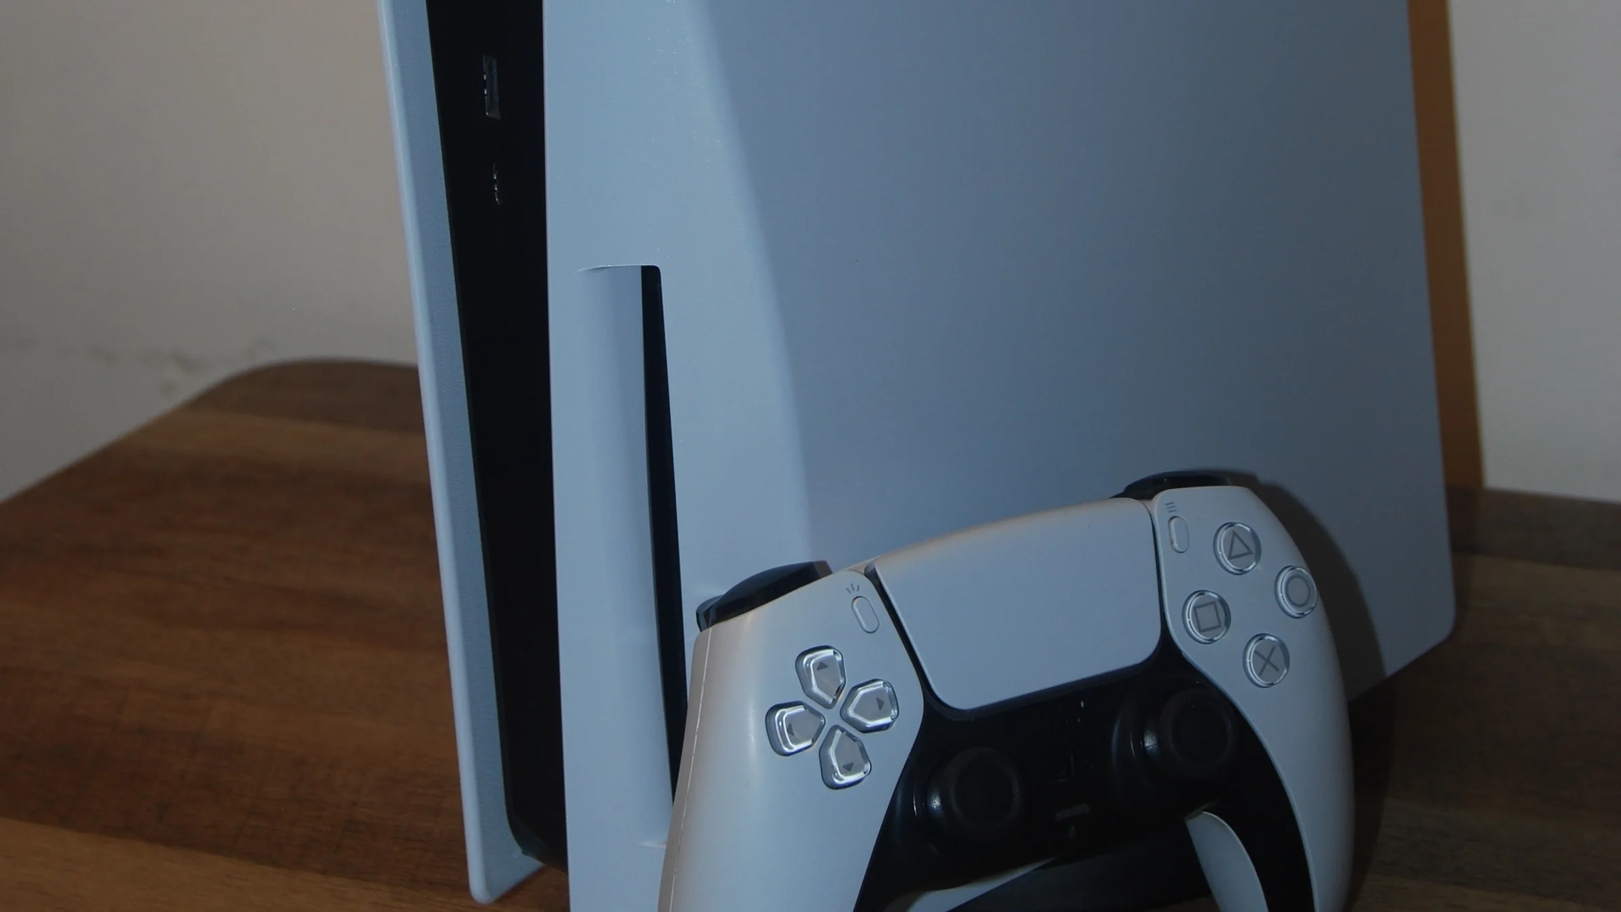
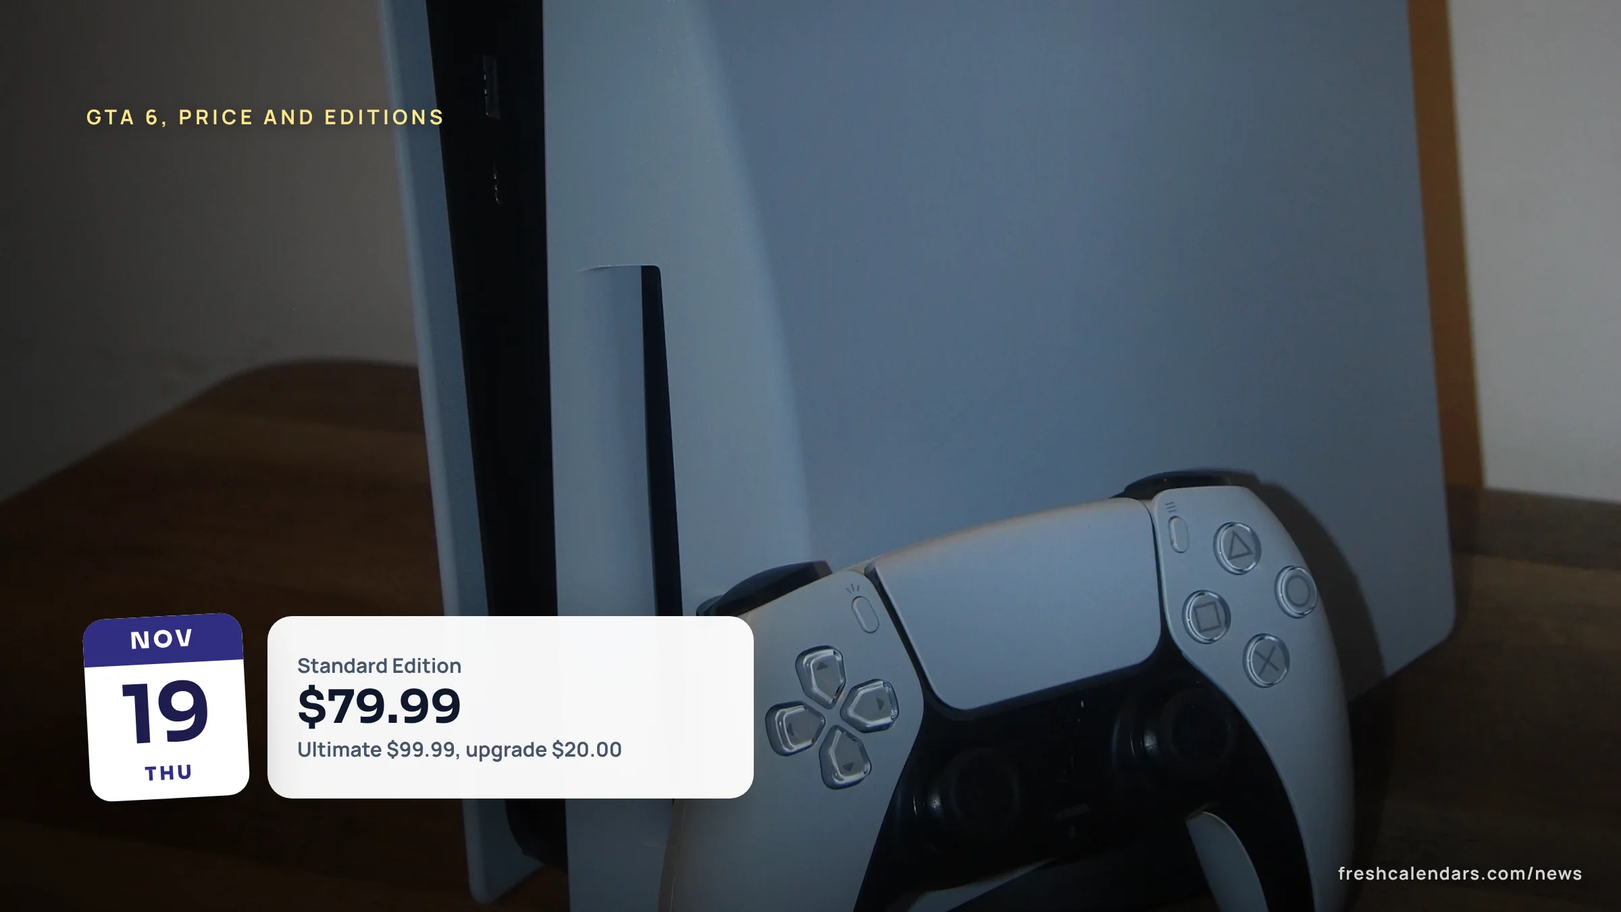
news(gta-6): launch stories in progress
Claude-Session: https://claude.ai/code/session_01FjeiYS8veVExHHG2PytUqw

diff --git a/apps/news/src/content/articles/2026/10/gta-6-countdown-release-time-by-time-zone.md b/apps/news/src/content/articles/2026/10/gta-6-countdown-release-time-by-time-zone.md
@@ -1,9 +1,9 @@
 ---
 title: "GTA 6 Countdown: Nov. 19 Release Time by Time Zone"
-description: "Grand Theft Auto (GTA) VI launches Thursday, Nov. 19, 2026. A live countdown shows the PlayStation Store release time in ET, PT, the UK and India."
+description: "Grand Theft Auto (GTA) VI launches Thursday, Nov. 19: midnight local time on PS5, 12 a.m. ET on the US store, 1 a.m. ET on Xbox Cloud Gaming. Live clock."
 type: explainer
 publishedAt: "2026-10-23T03:05:00-04:00"
-updatedAt: "2026-11-13T16:27:00-05:00"
+updatedAt: "2026-11-18T05:25:00-05:00"
 authors: [jessica-hartwell]
 category: gaming-tech
 keywords: ["GTA 6 countdown", "GTA 6 release time", "GTA 6 release date and time EST", "GTA 6 countdown days", "GTA 6 countdown printable"]
@@ -41,30 +41,44 @@ hero:
   title: "GTA 6 countdown to Nov. 19"
   caption: "Grand Theft Auto VI launches Thursday, Nov. 19, 2026, on PlayStation 5 and Xbox Series X|S. PlayStation Store listings give the release time."
 summary:
-  - "Grand Theft Auto VI launches Thursday, Nov. 19, 2026, on PlayStation 5 and Xbox Series X|S. Digital pre-load began Nov. 10."
-  - "The US and Canada PlayStation Store listings show 05:00 Coordinated Universal Time (UTC), which is 12:00 a.m. Eastern Time (ET) on Nov. 19 and 9 p.m. Pacific Time (PT) on Nov. 18."
-  - "The listings differ by country: the UK store lists 7 p.m. ET on Nov. 18, Germany 6 p.m. ET and India 1:30 p.m. ET."
-  - "The Xbox store page gives the date but no time. Rockstar has not announced a PC version."
+  - "Grand Theft Auto VI launches tomorrow, Thursday, Nov. 19, 2026, on PlayStation 5 and Xbox Series X|S. PlayStation says it releases at midnight local time on PS5, and pre-load began Nov. 10."
+  - "The US PlayStation Store lists 12 a.m. Eastern Time (ET) on Nov. 19, which is 9 p.m. Pacific Time (PT) on Nov. 18. The UK store lists 7 p.m. ET on Nov. 18, Germany 6 p.m. ET and India 1:30 p.m. ET."
+  - "Xbox Cloud Gaming starts at 1 a.m. ET on Nov. 19, per Microsoft. An official release hour for Xbox consoles is not announced."
+  - "Auckland, New Zealand reaches midnight first, at 6 a.m. ET on Wed., Nov. 18, by our conversion. Rockstar has not announced a PC version."
 faq:
   - q: "How many days until GTA 6?"
-    a: "As of Fri., Nov. 13, 2026, it is 6 days to Thu., Nov. 19 by the calendar. The live clock above counts to the exact release moment of the store you pick."
+    a: "As of Wed., Nov. 18, 2026, it is 1 day to Thu., Nov. 19 by the calendar. The live clock above counts to the exact release moment of the store you pick."
   - q: "What time does GTA 6 come out in the US?"
-    a: "The US PlayStation Store listing shows 11/19/2026 05:00 AM UTC, which is 12:00 a.m. ET on Thursday, Nov. 19. In the Central, Mountain and Pacific time zones that is 11 p.m., 10 p.m. and 9 p.m. on Wednesday, Nov. 18. The Xbox store page lists the date only."
+    a: "PlayStation says Grand Theft Auto VI releases at midnight local time on Nov. 19 on PS5. The US PlayStation Store listing shows 11/19/2026 05:00 AM UTC, which is 12:00 a.m. ET on Thursday, Nov. 19. In the Central, Mountain and Pacific time zones that is 11 p.m., 10 p.m. and 9 p.m. on Wednesday, Nov. 18. Xbox Cloud Gaming starts at 1 a.m. ET (12 a.m. CT, 11 p.m. MT and 10 p.m. PT on Nov. 18), per Microsoft."
   - q: "What time does GTA 6 come out in the UK?"
-    a: "The UK PlayStation Store listing shows 19/11/2026 12:00 AM UTC, which is 12:00 a.m. Greenwich Mean Time (GMT) on Thursday, Nov. 19."
+    a: "The UK PlayStation Store listing shows 19/11/2026 12:00 AM UTC, which is 12:00 a.m. Greenwich Mean Time (GMT) on Thursday, Nov. 19, matching PlayStation's midnight local time."
   - q: "What time does GTA 6 come out in India?"
     a: "The India PlayStation Store listing shows 18/11/2026 06:30 PM UTC, which is 12:00 a.m. India Standard Time (IST) on Thursday, Nov. 19."
-  - q: "What time does GTA 6 come out in Australia?"
-    a: "We could not load the Australian PlayStation Store listing, so we do not give a time. Check the listing for your account's store region."
+  - q: "What time does GTA 6 come out in Australia and New Zealand?"
+    a: "At midnight local time on Nov. 19, per PlayStation. By our conversion, that is 8 a.m. ET on Wed., Nov. 18 in Sydney and 6 a.m. ET in Auckland. We could not load the Australian PlayStation Store listing, so we give no store timestamp. Our New Zealand story covers what is and is not confirmed about changing a console's region."
   - q: "Does GTA 6 release at the same moment everywhere?"
-    a: "No. The PlayStation Store listings differ by country: US and Canada 05:00 UTC, UK 00:00 UTC, Germany 23:00 UTC on Nov. 18 and India 18:30 UTC on Nov. 18. Converted, those are 12:00 a.m. local time in each of those countries."
+    a: "No single worldwide moment is announced. PlayStation says midnight local time, and the store listings differ by country: US and Canada 05:00 UTC, UK 00:00 UTC, Germany 23:00 UTC on Nov. 18 and India 18:30 UTC on Nov. 18. Converted, those are 12:00 a.m. local time in each of those countries."
+  - q: "What time does GTA 6 come out on Xbox?"
+    a: "Xbox Cloud Gaming on Xbox One and Xbox Series X|S starts at 1 a.m. ET on Nov. 19, per Microsoft's Xbox Wire. Microsoft has not announced a release hour for Xbox Series X|S consoles."
   - q: "Is GTA 6 coming to PC?"
     a: "Rockstar Games has not announced a PC version or date. The announced platforms are PlayStation 5 and Xbox Series X|S."
   - q: "How big is the GTA 6 download?"
-    a: "The store pages we read show no download size. Rockstar's store page says \"Pre-load begins November 10, 2026,\" and the PlayStation Store listings show a Pre-load Now button. Read the size on your own store listing before you free up space."
+    a: "PlayStation says to have 212 GB of storage space available on PS5. The Xbox Series X|S install size is not confirmed."
   - q: "How much does GTA 6 cost?"
     a: "On the PlayStation Store, the Standard Edition is $79.99 in the US, £69.99 in the UK, €79.99 in Germany and Rs 5,999 in India. The Ultimate Edition is $99.99, £89.99, €99.99 and Rs 7,499."
 sources:
+  - title: "Grand Theft Auto VI support (UK)"
+    url: "https://www.playstation.com/en-gb/support/games/gta-vi-support/"
+    publisher: "PlayStation"
+    date: "2026-11-18"
+  - title: "Grand Theft Auto VI Comes to XBOX One and XBOX Series X|S Through XBOX Cloud Gaming on November 19"
+    url: "https://news.xbox.com/en-us/2026/11/10/grand-theft-auto-6-comes-to-xbox-cloud-gaming-november-19/"
+    publisher: "Xbox Wire (Microsoft)"
+    date: "2026-11-10"
+  - title: "Grand Theft Auto VI - PS5 Games | PlayStation (US)"
+    url: "https://www.playstation.com/en-us/games/grand-theft-auto-vi/"
+    publisher: "PlayStation"
+    date: "2026-11-18"
   - title: "Grand Theft Auto VI | Rockstar Store"
     url: "https://store.rockstargames.com/game/buy-gta-vi"
     publisher: "Rockstar Games"
@@ -108,7 +122,7 @@ internalLinks:
     label: "November 2026 printable calendar"
   - href: "/printable-weekly-calendar.html"
     label: "Printable weekly planner"
-related: [gta-6-october-22-2026-what-is-confirmed-release-countdown, stellar-blade-switch-2-release-time-november-5, wow-forever-launch-time-by-time-zone-november-4]
+related: [gta-6-new-zealand-release-time-nz-trick, gta-6-xbox-one-cloud-gaming-ps4-platforms, gta-6-youtube-launch-livestream-time-24-hour-stream]
 downloads:
   - group: "GTA 6 Launch Checklist and Release Times printables"
     title: "GTA 6 Launch Checklist and Release Times, Nov. 19, 2026"
@@ -121,7 +135,7 @@ downloads:
 draft: false
 ---
 
-**Grand Theft Auto (GTA) VI launches Thursday, Nov. 19, 2026, and digital pre-load began Nov. 10.** The exact moment depends on your store: the US PlayStation Store lists 12:00 a.m. Eastern Time (ET), which is 9 p.m. Pacific Time (PT) on Wednesday, Nov. 18. The clock below counts down to the store you pick.
+**Grand Theft Auto (GTA) VI launches tomorrow, Thursday, Nov. 19, 2026.** PlayStation's official wording is "Grand Theft Auto VI releases at midnight local time on November 19, 2026, on PlayStation®5 consoles." The US PlayStation Store lists 12:00 a.m. Eastern Time (ET), which is 9 p.m. Pacific Time (PT) on Wednesday, Nov. 18. On Xbox, Microsoft says "Streaming for Grand Theft Auto VI begins at 1am ET on November 19" through Xbox Cloud Gaming. The clock below counts down to the store you pick.
 
 ## GTA 6 countdown clock
 
@@ -136,7 +150,7 @@ The clock needs JavaScript. Without it, use the table below. It counts from the 
 
 ## What time does GTA 6 come out?
 
-The PlayStation Store lists a release time in UTC on each of the five product pages we read, and the times differ by country. Rockstar Games has not published a separate release schedule, so these are the store listings, converted.
+PlayStation says midnight local time on PS5, so the moment moves with the time zone. The PlayStation Store lists a release time in UTC on each of the five product pages we read, and the times differ by country, which matches that sentence. Rockstar's own regional release page could not be read, so these are the store listings, converted.
 
 | PlayStation Store | Listing shows | Local time | In Eastern Time | In Pacific Time |
 |---|---|---|---|---|
@@ -159,39 +173,70 @@ The US listing's 05:00 UTC converts like this on Wednesday, Nov. 18 and Thursday
 | Mountain Time (MT) | 10 p.m., Wed., Nov. 18 |
 | Pacific Time (PT) | 9 p.m., Wed., Nov. 18 |
 
-If the US store's moment applies to you, the West Coast gets the game on Wednesday evening, not at midnight. The listing is for the storefront, so the one to read is the one that matches your console account's store region. Neither Sony nor Rockstar has said what happens when that region differs from where you live.
+If the US store's moment applies to you, the West Coast gets the game on Wednesday evening, not at midnight. The listing is for the storefront, so the one to read is the one that matches your console account's store region. Whether changing a console's region unlocks the game early is not confirmed by Rockstar, Sony or Microsoft; our [New Zealand release time story](/news/gta-6-new-zealand-release-time-nz-trick/) covers it.
+
+### GTA 6 on Xbox Cloud Gaming
+
+Microsoft's Xbox Wire post says GTA VI is playable on day one through Xbox Cloud Gaming on Xbox One and Xbox Series X|S, starting at 1 a.m. ET. The same moment is below. Our [Xbox One and cloud gaming story](/news/gta-6-xbox-one-cloud-gaming-ps4-platforms/) has the platform details.
+
+| Zone | Xbox Cloud Gaming start |
+|---|---|
+| Eastern Time (ET) | 1 a.m., Thu., Nov. 19 |
+| Central Time (CT) | 12 a.m., Thu., Nov. 19 |
+| Mountain Time (MT) | 11 p.m., Wed., Nov. 18 |
+| Pacific Time (PT) | 10 p.m., Wed., Nov. 18 |
+
+An official release hour for Xbox consoles is not announced; 1 a.m. ET is the cloud streaming time only.
+
+### Midnight by place
+
+Midnight on Thursday, Nov. 19 in each place, converted by us. U.S. Eastern Time is UTC minus 5 hours after clocks went back on Nov. 1.
+
+| Place | Local | ET | PT |
+|---|---|---|---|
+| Auckland, New Zealand (UTC+13) | 12 a.m. Thu., Nov. 19 | 6 a.m. Wed., Nov. 18 | 3 a.m. Wed., Nov. 18 |
+| Sydney, Australia (UTC+11) | 12 a.m. Thu., Nov. 19 | 8 a.m. Wed., Nov. 18 | 5 a.m. Wed., Nov. 18 |
+| Tokyo, Japan (UTC+9) | 12 a.m. Thu., Nov. 19 | 10 a.m. Wed., Nov. 18 | 7 a.m. Wed., Nov. 18 |
+| New Delhi, India (UTC+5:30) | 12 a.m. Thu., Nov. 19 | 1:30 p.m. Wed., Nov. 18 | 10:30 a.m. Wed., Nov. 18 |
+| Berlin and Paris (UTC+1) | 12 a.m. Thu., Nov. 19 | 6 p.m. Wed., Nov. 18 | 3 p.m. Wed., Nov. 18 |
+| London (UTC+0) | 12 a.m. Thu., Nov. 19 | 7 p.m. Wed., Nov. 18 | 4 p.m. Wed., Nov. 18 |
+| São Paulo, Brazil (UTC-3) | 12 a.m. Thu., Nov. 19 | 10 p.m. Wed., Nov. 18 | 7 p.m. Wed., Nov. 18 |
+| US PlayStation Store listing | 12 a.m. ET Thu., Nov. 19 | 12 a.m. Thu., Nov. 19 | 9 p.m. Wed., Nov. 18 |
+
+New Zealand's midnight comes 18 hours before the U.S. listing. YouTube's 24-hour launch stream starts at 12 a.m. ET, with a pre-show at 11 p.m. ET on Nov. 18; see the [YouTube launch stream times](/news/gta-6-youtube-launch-livestream-time-24-hour-stream/).
 
 ### What we could not confirm
 
-- **Xbox.** The Xbox store page lists a release date of 11/19/2026 and no time or time zone.
-- **Australia and Japan.** We could not load those PlayStation Store listings, so there is no time for them here.
-- **Other countries.** We checked five stores. Mexico, Brazil and the rest of the list are not covered.
-- **Release hour for pre-loaded copies.** Rockstar's store page says pre-load began Nov. 10 and gives no separate hour, so the store listings above are the only times.
+- **Xbox consoles.** The Xbox store page lists a release date of 11/19/2026 and no time or time zone. Microsoft gives 1 a.m. ET for cloud streaming only, so an official release hour for Xbox consoles is not announced.
+- **A single worldwide moment.** None is announced; PlayStation's wording is midnight local time.
+- **Australia and Japan store listings.** We could not load them, so the midnight times for those places come from PlayStation's sentence and our conversion.
+- **Other countries.** We checked five stores. Mexico, Brazil and the rest of the list are not covered by a listing.
 
 ## GTA 6 release date at a glance
 
 | Item | Detail | Source |
 |---|---|---|
-| Release date | Thursday, Nov. 19, 2026 | Rockstar Games |
+| Release date | Thursday, Nov. 19, 2026; midnight local time on PS5 | Rockstar Games, PlayStation |
+| Xbox Cloud Gaming | Starts 1 a.m. ET, Thu., Nov. 19 | Microsoft |
 | Platforms | PlayStation 5 (PS5) and Xbox Series X\|S | Rockstar Games |
 | PC | No version or date announced | Rockstar Games |
-| Pre-load | Began Nov. 10 for digital pre-orders; physical copies are a download code in the box, no disc | Rockstar Games |
+| Pre-load | Began Nov. 10 for digital pre-orders; 212 GB of space needed on PS5; physical copies are a download code in the box, no disc | PlayStation |
 | US price | $79.99 Standard, $99.99 Ultimate | PlayStation Store |
 | UK price | £69.99 Standard, £89.99 Ultimate | PlayStation Store |
 | Canada price | $109.99 Standard, $139.99 Ultimate | PlayStation Store |
 | Germany price | €79.99 Standard, €99.99 Ultimate | PlayStation Store |
 | India price | Rs 5,999 Standard, Rs 7,499 Ultimate | PlayStation Store |
 
-For the full list of announcements, the pre-order bonus and Rockstar's Thursday pattern, see our story on [what Rockstar has confirmed](/news/gta-6-october-22-2026-what-is-confirmed-release-countdown/).
+For the full list of announcements and the pre-order bonus, see our story on [what Rockstar has confirmed](/news/gta-6-october-22-2026-what-is-confirmed-release-countdown/). Prices and editions are in our [GTA 6 price story](/news/gta-6-price-editions-standard-ultimate-upgrade/), and the 212 GB download is covered in the [download size story](/news/gta-6-download-size-212-gb-ps5-pre-load-install-fix/).
 
 ## How many days until GTA 6?
 
-On Friday, Nov. 13, launch day is 6 days away by the calendar, and the live clock above gives the exact figure. The day count shifts by one depending on which instant you count to: the UK store lists 5 hours before the US one, and India's lists 10 and a half hours before it.
+On Wednesday, Nov. 18, launch day is 1 day away by the calendar, and the live clock above gives the exact figure. The day count shifts by one depending on which instant you count to: the UK store lists 5 hours before the US one, and India's lists 10 and a half hours before it.
 
 | Date | Days to launch |
 |---|---|
-| Mon., Nov. 16 | 3 |
-| Wed., Nov. 18 | 1 |
+| Mon., Nov. 16 | 3 (past) |
+| Wed., Nov. 18 | 1, today |
 | Thu., Nov. 19 | 0, launch day |
 
 ## Free GTA 6 launch checklist to print
@@ -204,4 +249,4 @@ Fresh Calendars does not offer a native iPhone widget or an embed code. To keep 
 
 ## How we keep this accurate
 
-We read the five PlayStation Store listings and Rockstar's store page again on Nov. 13, 2026. If Rockstar, Sony or Microsoft changes the date or a store time, the table, the clock and the printable will change together. To plan the month around the launch, use our [November 2026 printable calendar](/november-calendars.html) or a [weekly planner](/printable-weekly-calendar.html), and see [November 2026 important dates](/news/november-2026-important-dates-days-until/) for everything else on the calendar. Thanksgiving is a week after launch; our [Thanksgiving 2026 guide](/news/why-thanksgiving-2026-is-november-26/) has the details.
+We read PlayStation's support and game pages and Microsoft's Xbox Wire post on Nov. 18, 2026; the five PlayStation Store listings and Rockstar's store page were last read on Nov. 13. If Rockstar, Sony or Microsoft changes the date or a store time, the table, the clock and the printable will change together. To plan the month around the launch, use our [November 2026 printable calendar](/november-calendars.html) or a [weekly planner](/printable-weekly-calendar.html), and see [November 2026 important dates](/news/november-2026-important-dates-days-until/) for everything else on the calendar. Thanksgiving is a week after launch; our [Thanksgiving 2026 guide](/news/why-thanksgiving-2026-is-november-26/) has the details.

diff --git a/apps/news/src/content/articles/2026/10/gta-6-october-22-2026-what-is-confirmed-release-countdown.md b/apps/news/src/content/articles/2026/10/gta-6-october-22-2026-what-is-confirmed-release-countdown.md
@@ -1,9 +1,9 @@
 ---
-title: "GTA 6 Release Date: Nov. 19, Pre-Load Nov. 10, $79.99 Price"
-description: "Grand Theft Auto (GTA) VI comes out Thursday, Nov. 19, 2026, for $79.99. Pre-load opens Nov. 10, and every official date until launch is listed."
+title: "GTA 6 Release Date Is Nov. 19: Launch Times, Price, 212 GB"
+description: "Grand Theft Auto (GTA) VI launches Thursday, Nov. 19, 2026, from $79.99. Midnight local time on PS5, 1 a.m. ET on Xbox Cloud Gaming, 212 GB, no disc."
 type: news
 publishedAt: "2026-10-20T15:00:00-04:00"
-updatedAt: "2026-11-06T07:20:00-05:00"
+updatedAt: "2026-11-18T05:30:00-05:00"
 authors: [jessica-hartwell]
 category: gaming-tech
 keywords: ["GTA 6 October 22", "GTA 6 release date", "GTA 6 preload date", "GTA 6 news this week", "GTA 6 countdown"]
@@ -12,29 +12,33 @@ hero:
   src: ../../../../assets/news/gta-6-october-22-2026-what-is-confirmed-release-countdown/gta-6-october-22-2026-what-is-confirmed-release-countdown.jpg
   alt: "GTA 6 countdown: a calendar page for Thursday, Oct. 22 over a neon sunset, beside a card reading launch Thursday, Nov. 19"
   title: "GTA 6: what is confirmed before the Nov. 19 launch"
-  caption: "Grand Theft Auto VI launches Nov. 19, 2026, on PlayStation 5 and Xbox Series X|S. Pre-loading opened Nov. 10."
+  caption: "Grand Theft Auto VI launches Thursday, Nov. 19, 2026, on PlayStation 5 and Xbox Series X|S. Pre-loading opened Nov. 10."
 summary:
-  - "Rockstar's Grand Theft Auto VI page still lists the Thursday, Nov. 19, 2026 launch as of Nov. 13, six days out. Its latest GTA VI post, on Tuesday, Nov. 10, said pre-load is open; the 30-track score album by Justice is out Dec. 11."
-  - "Confirmed by Take-Two Interactive: launch on Thursday, Nov. 19, 2026, on PlayStation 5 and Xbox Series X|S for $79.99, or $99.99 for the Ultimate Edition."
-  - "Pre-orders have been able to pre-load since Tuesday, Nov. 10; PlayStation says to clear at least 212GB on a PlayStation 5. The boxed edition, which holds a download code and no disc, was set to go on sale Nov. 12."
-  - "Take-Two reported quarterly results on Nov. 9, its last report before launch, and called launch ten days away. Rockstar has not announced a PC version."
+  - "Grand Theft Auto VI launches tomorrow, Thursday, Nov. 19, 2026, on PlayStation 5 and Xbox Series X|S, for $79.99 (Standard) or $99.99 (Ultimate)."
+  - "PlayStation says it releases at midnight local time on PS5; Microsoft says Xbox Cloud Gaming starts at 1 a.m. Eastern Time (ET). YouTube's 24-hour stream starts at 12 a.m. ET, after an 11 p.m. ET pre-show on Nov. 18."
+  - "PS5 needs 212 GB of free space. The boxed edition holds a download code and no disc. The Entertainment Software Rating Board (ESRB) rates it M for Mature 17+."
+  - "Not announced: a PC version, an Xbox console release hour, Xbox install size and any online mode date."
 faq:
   - q: "Did GTA 6 change its release date?"
-    a: "No. Rockstar's official Grand Theft Auto VI page still lists the Thursday, Nov. 19, 2026 launch as of Nov. 13, and the PlayStation Store price of $79.99 is unchanged. Take-Two's Nov. 9 results release repeated the Nov. 19 date. Rockstar's newest GTA VI post, on Nov. 10, said pre-load is open and did not touch the date."
+    a: "No. Rockstar's official Grand Theft Auto VI page reads \"Coming November 19, 2026,\" and PlayStation, Microsoft and Take-Two Interactive all repeat Nov. 19. The date moved once, to Nov. 19 from the earlier May 26, 2026 target, before the June pre-orders; the Oct. 22 reveal day did not touch it."
   - q: "When does GTA 6 come out?"
-    a: "Thursday, Nov. 19, 2026, on PlayStation 5 and Xbox Series X|S, according to Rockstar Games and Take-Two Interactive."
-  - q: "When can I pre-load GTA 6?"
-    a: "Now, if you pre-ordered. Pre-load opened Tuesday, Nov. 10, 2026, according to Rockstar's game page and the PlayStation Store, which says PlayStation 5 pre-load starts at midnight local time. Game Informer and Final Weapon, both citing Rockstar's support page on Nov. 3, report that Xbox Series X|S pre-load started at 12 a.m. Greenwich Mean Time (GMT) on Nov. 10, which is 7 p.m. Eastern Time (ET) on Monday, Nov. 9 (4 p.m. Pacific Time, PT). Rockstar's own pages do not give an Xbox hour."
+    a: "Thursday, Nov. 19, 2026, on PlayStation 5 and Xbox Series X|S, according to Rockstar Games and Take-Two Interactive. PlayStation says midnight local time on PS5."
+  - q: "What time does GTA 6 unlock?"
+    a: "PlayStation says \"Grand Theft Auto VI releases at midnight local time on November 19, 2026, on PlayStation 5 consoles.\" Xbox Cloud Gaming starts at 1 a.m. ET on Nov. 19 (12 a.m. CT, 11 p.m. MT and 10 p.m. PT on Nov. 18), per Microsoft. An official release hour for Xbox consoles is not announced."
+  - q: "When could I pre-load GTA 6?"
+    a: "Pre-load opened Tuesday, Nov. 10, 2026, for those who pre-ordered, according to Rockstar and PlayStation, which says PS5 pre-load started at midnight local time. Game Informer and Final Weapon, both citing Rockstar's support page on Nov. 3, report that Xbox Series X|S pre-load started at 12 a.m. Greenwich Mean Time (GMT) on Nov. 10, which was 7 p.m. ET on Monday, Nov. 9. Rockstar's own pages do not give an Xbox hour."
+  - q: "How big is GTA 6 on PS5?"
+    a: "PlayStation says to have 212 GB of storage space available on PS5. The Xbox Series X|S install size is not confirmed."
   - q: "How much does GTA 6 cost?"
-    a: "$79.99 for the standard edition and $99.99 for the Ultimate Edition in the U.S. Pre-orders and purchases made before Nov. 20 include the Vintage Vice City Pack, and digital pre-orders add a free month of GTA+, Rockstar's subscription."
+    a: "$79.99 for the Standard Edition and $99.99 for the Ultimate Edition in the U.S. Purchases made before Nov. 20 include the Vintage Vice City Pack. Microsoft says the Ultimate Edition bonus of one month of GTA+ needs a purchase before 11:59:59 p.m. on Nov. 19."
   - q: "Does the GTA 6 physical edition come with a disc?"
-    a: "No. The physical version contains a download code inside the box, and Take-Two said it goes on sale Nov. 12. Final Weapon reported code-in-box editions should be at retailers from Nov. 12."
+    a: "No. PlayStation says the physical (code-in-box) version contains only a game download code to support pre-load and no disc. Take-Two said the boxed edition would be available from Nov. 12."
   - q: "When does the GTA 6 soundtrack come out?"
     a: "There are two albums. Grand Theft Auto VI: The Album, 34 original songs made with Atlantic Records, arrives Nov. 19 with the game. Grand Theft Auto VI: Original Score, 30 tracks by the French duo Justice, follows on Friday, Dec. 11, on streaming services, CD and vinyl."
   - q: "Is GTA 6 coming to PC?"
     a: "Rockstar has not announced a PC version or date. The confirmed platforms are PlayStation 5 and Xbox Series X|S."
   - q: "What is GTA 6 rated?"
-    a: "M for Mature 17+ by the Entertainment Software Rating Board, for blood and gore, intense violence, mature humor, nudity, strong language, strong sexual content and use of drugs and alcohol, with in-game purchases."
+    a: "M for Mature 17+ by the ESRB, for blood and gore, intense violence, mature humor, nudity, strong language, strong sexual content and use of drugs and alcohol, with in-game purchases."
 sources:
   - title: "Grand Theft Auto VI - PS5 Games | PlayStation (US)"
     url: "https://www.playstation.com/en-us/games/grand-theft-auto-vi/"
